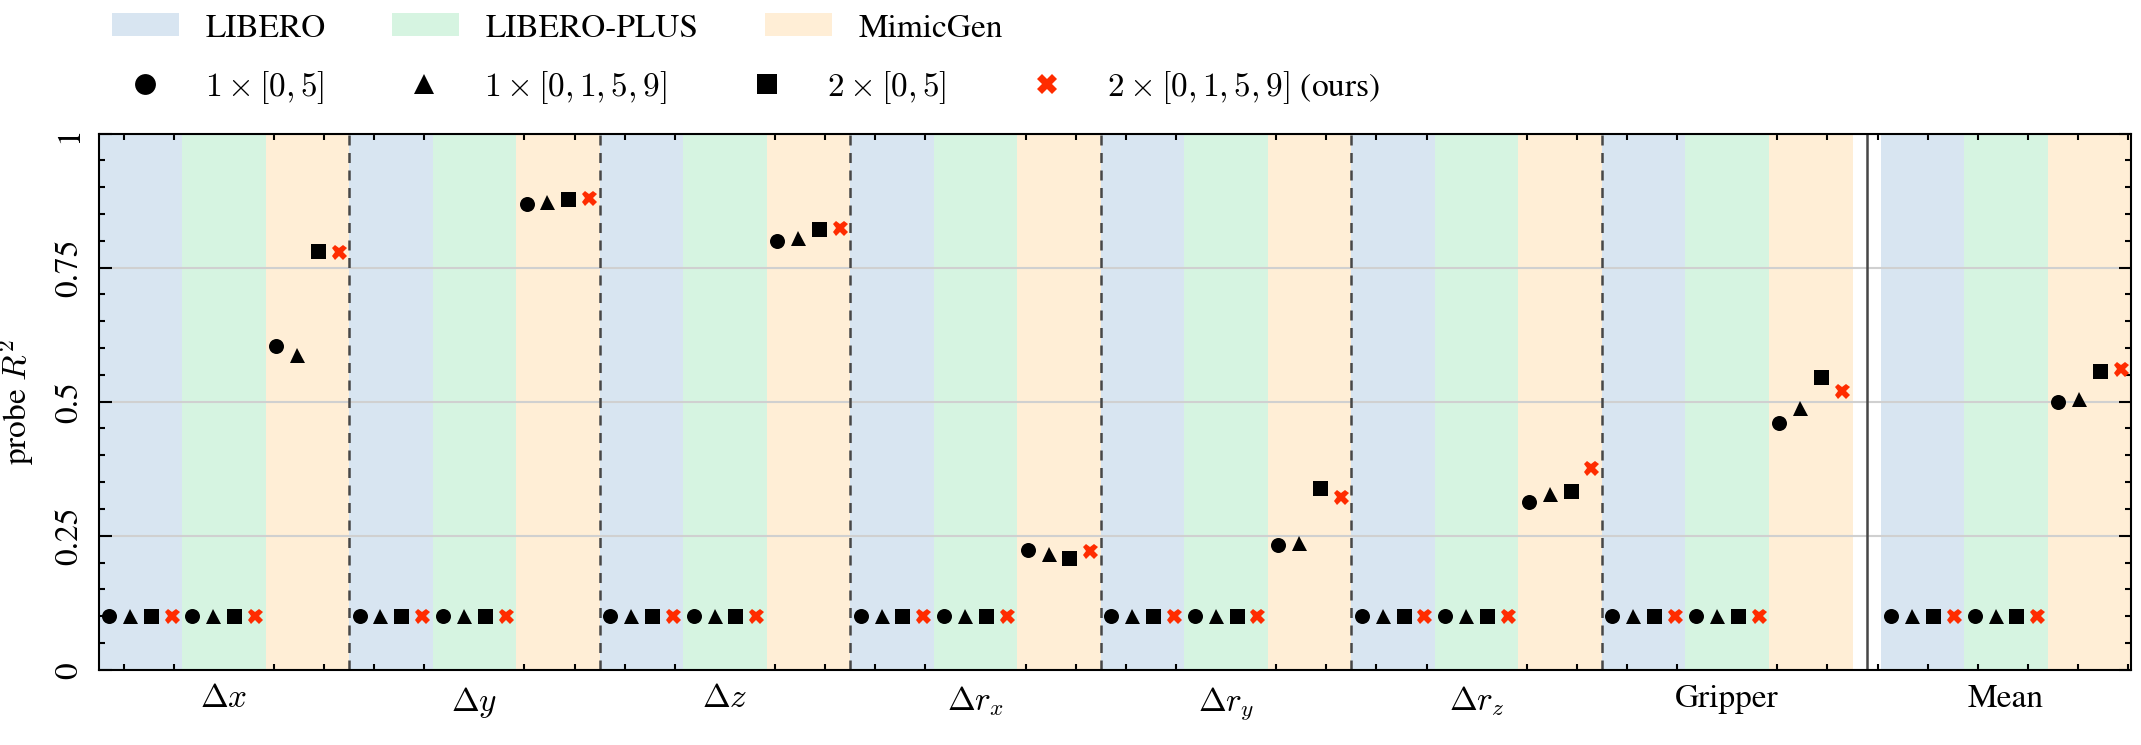
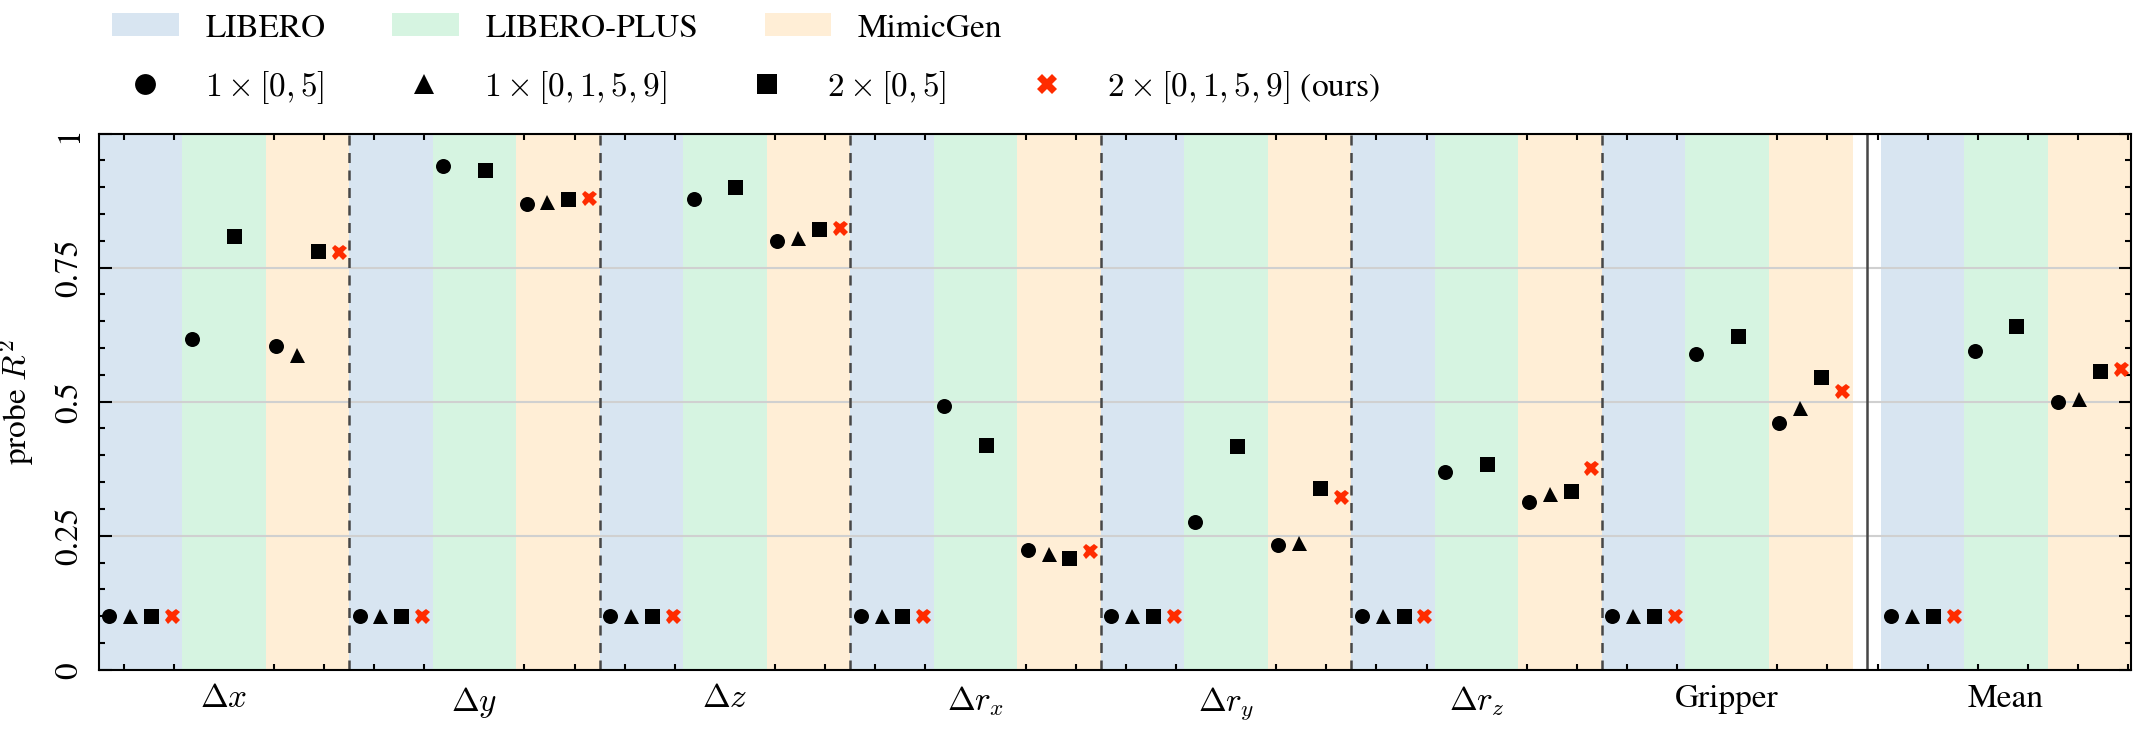
data: LIBERO-PLUS single- and multi-view probe results
Both cells come off MN5, from the n2 two-stage chain under Oliver's
account: single-view LAM 44001862 -> probe 44014454, dual-view LAM
44056649 -> probe 44064423. Numbers are the per-dimension mlp / episode /
continuous / current_action rows of each run's action_probe_r2.csv, at
ckpt100000.

Selector verified rather than assumed: replaying it against the two
MimicGen gate dirs (gate_2f_single_ckpt070000, gate_2f_multi_ckpt050000)
reproduces probing_mimicgen.csv's sv_sf and mv_sf columns cell for cell.

Mean R^2 0.5941 single vs 0.6406 multi, and both mean rows agree with the
mean over dimensions, so the stale-dump check is quiet.

sv_mf and mv_mf move from 0.1 filler to the 0 sentinel, so they draw as
gaps. That is not a gap waiting to be filled: both LIBERO-plus teachers
are 2-frame (--lam-offsets '[5]'), there is no 4-frame teacher on this
benchmark, and the cluster holds exactly two LIBERO-plus label roots.
Leaving fake numbers beside real ones in one file is the failure mode
5dfe407 warned about.

probing_libero.csv is still entirely 0.1 filler and is now the only fake
data in the figure -- the flat row along the bottom of every group.

README gains the rule that both styles must be regenerated together: one
run updates <name>.pdf or <name>_science.pdf but never both, so half the
committed output goes stale and the two versions of a figure start
showing different numbers.

diff --git a/README.md b/README.md
@@ -35,6 +35,16 @@ python plot_radar_row.py       # figures/radar_row.pdf, all three radars in one 
 default `paper` style reproduces the document's own body text; that is the one
 to ship.
 
+**Always regenerate both styles.** A script writes `<name>.pdf` under `paper`
+and `<name>_science.pdf` under `science`, so one run updates only half of what
+is committed and the two versions of a figure silently start showing different
+numbers. Whenever a `results/*.csv` or a plot script changes, run the script
+twice and commit both outputs:
+
+```sh
+python plot_probing.py && python plot_probing.py --style science
+```
+
 Each script also prints a plain-text table of the numbers it plotted. Read it —
 it is the fastest way to catch a stale dump, and it is the accessible view of
 the same data.
